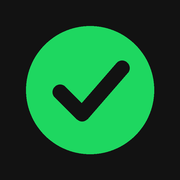
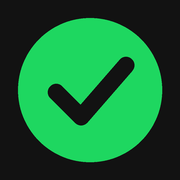
App 圖示綠圓放大（直徑約為圖示寬度 80%）

diff --git a/index.html b/index.html
@@ -9,8 +9,8 @@
 <meta name="apple-mobile-web-app-title" content="SHeard">
 <title>SHeard</title>
 <link rel="manifest" href="manifest.webmanifest">
-<link rel="icon" href="icon.svg?v=2" type="image/svg+xml">
-<link rel="apple-touch-icon" href="apple-touch-icon.png?v=2">
+<link rel="icon" href="icon.svg?v=3" type="image/svg+xml">
+<link rel="apple-touch-icon" href="apple-touch-icon.png?v=3">
 <style>
 :root{
   --bg:#121212; --bg2:#1c1c1e; --bg3:#2a2a2d; --line:#333338;

diff --git a/sw.js b/sw.js
@@ -1,5 +1,5 @@
 // 離線快取：App 本體可離線開啟；搜尋與封面仍需網路
-const CACHE = 'heard-v64';
+const CACHE = 'heard-v65';
 const SHELL = ['./', 'index.html', 'app.js', 'config.js', 'strokes.js', 'manifest.webmanifest', 'icon.svg', 'icon-512.png', 'apple-touch-icon.png'];
 
 self.addEventListener('install', e => {
